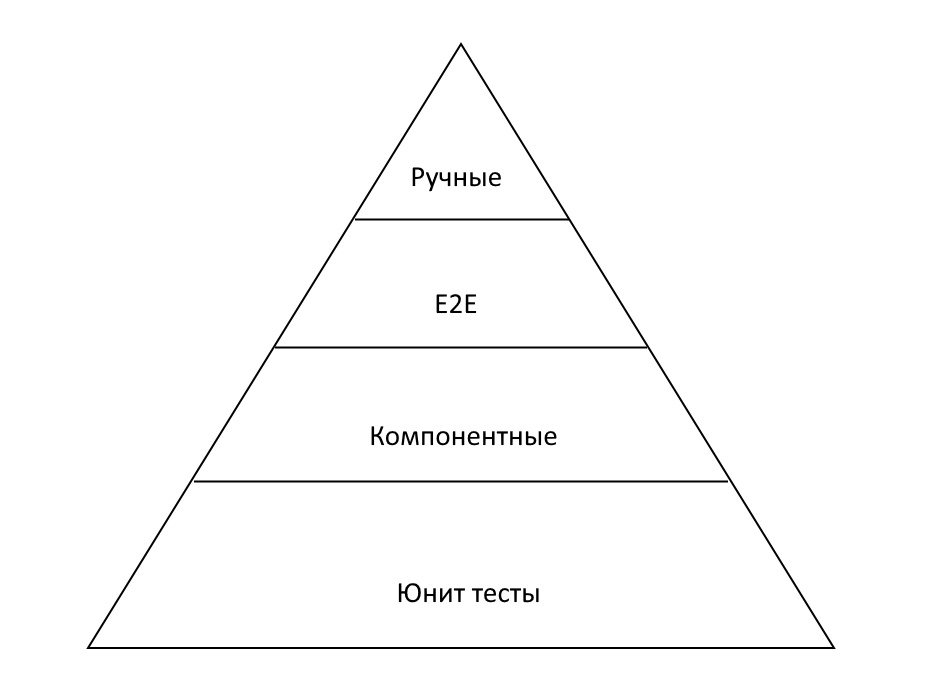
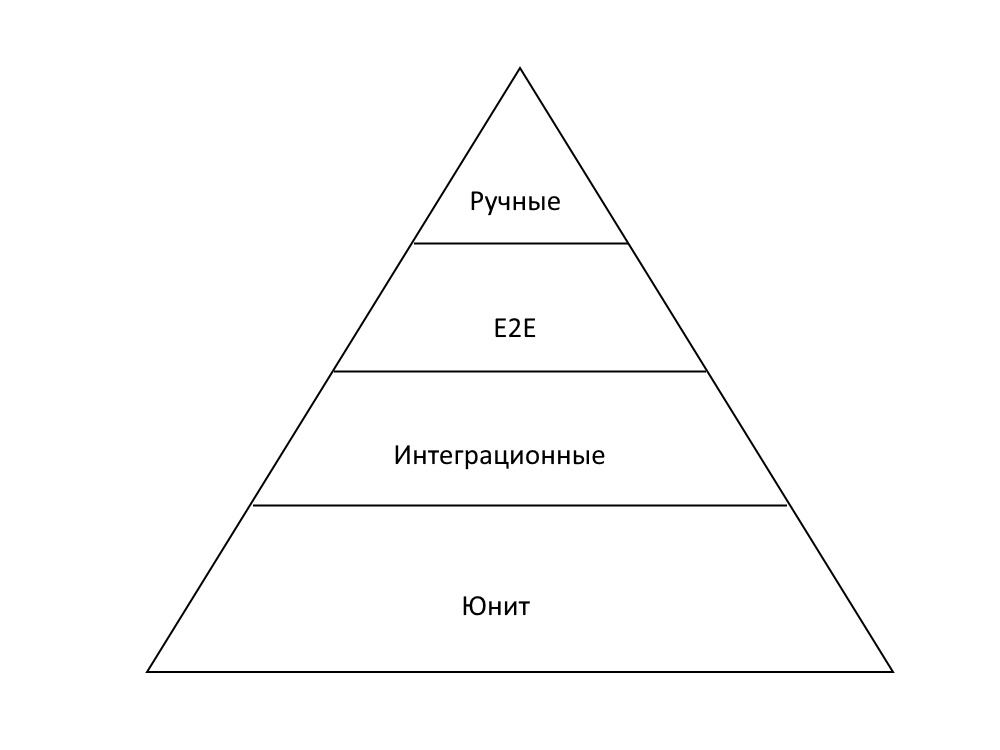
Добавить слайды

diff --git a/index.html b/index.html
@@ -24,8 +24,9 @@
         <li class="next">Инструменты Angular для тестирования</li>
         <li class="next">Про BDD</li>
         <li class="next">Основные функции Jasmine</li>
+        <li class="next">Утилиты Angular</li>
         <li class="next">Примеры тестов в реальном приложении</li>
-        <li class="next">Анали покрытия тестами</li>
+        <li class="next">Анализ покрытия тестами</li>
         <li class="next">Впечатления и профит</li>
     </ul>
 </section>
@@ -39,25 +40,25 @@
     <p>
         Это тестирование одного элемента кода (например, отдельная функция или класс в случае ООП-кода) в изоляции от
         остальной части программы.
-    </p>
-    <p>
+        <br>
+        <strong>Паттерн AAA</strong> - каждый тест разбивается на три части: <mark>arrange</mark> (подготовка), <mark>act</mark> (действие) и <mark>assert</mark> (проверка).
+        <br>
         <strong>Стабы</strong> — это заглушки, которые вместо выполнения действия возвращают какие-то данные.
-    </p>
-    <p>
+        <br>
         <strong>Моки</strong> — это заглушки, которые используются, чтобы подменить функциональность.
     </p>
 </section>
 
 
 <section class="slide">
-    <h2>Компонентные (интеграционные) тесты</h2>
+    <h2>Интеграционные</h2>
     <p>
         Тестируют какой-то компонент системы, но не полноценную систему (E2E).
         Например, мы проверяем, что компоненты на вкладке совместно корректно работают.
     </p>
     <ul>
         <li>Изолированы от внешней среды моками (стабами)</li>
-        <li>Быстрые и надёжные</li>
+        <li>Стабильные и достаточно быстрые</li>
         <li>Проверяют один экран (компонент) в разных комбинациях. Помогают при рефакторинге</li>
     </ul>
 </section>
@@ -76,6 +77,74 @@
     <div class="next">
         <strong>Protractor (не поддерживается)</strong> - фреймворк для E2E тестов
     </div>
+</section>
+
+<section class="slide">
+    <h2>BDD (Behaviour Driven Development — Разработка через поведение)</h2>
+    Исторически BDD является продолжением TDD методологии.
+    <br>
+    Использует концепцию <strong>DSL</strong> ( Domain-Specific Language - специфичный предметно-ориентированный язык) -
+    язык,
+    понятный всем участникам процесса и позволяющего объединить постановку задачи, тесты и документацию воедино.
+</section>
+
+<section class="slide">
+    <h2>Преимущества BDD</h2>
+    Улучшает коммуникацию между командой разработки и бизнесом.
+    <br>
+    <ul>
+        <li>ПО и аналитик пишут подробные требования в виде user stories.</li>
+        <li>На основе этих требований формируются тест-кейсы, которые описывают желаемое поведение</li>
+        <li>Разработчик реализует тесты и консультируется с тестировщиком, чтобы не уходить слишком далеко в логику</li>
+    </ul>
+    Т.о. разработчик понимает, что он реализует то, что нужно.
+</section>
+
+<section class="slide">
+    <pre><code>
+    <mark>describe</mark>("Узнать как дела", function() {
+        <mark>beforeEach</mark>(() => {  let isFine; });
+
+        <mark>it</mark>("всё отлично", function() {
+            isFine = true;
+            <mark>expect</mark>(isFine).toBe(true);
+        });
+    });
+    </code></pre>
+</section>
+
+<section class="slide">
+    <h2>Jasmine. Базовая структура теста</h2>
+    <strong>describe</strong> обозначает набор, логически связанных друг с другом тестов.
+    Наборы могут быть вложенными.
+    <br>
+    <strong>beforeEach()</strong> используется для задания исходного состояния и вызывается перед каждой функцией it()
+    <br>
+    <strong>it</strong> определяет тест-кейс внутри любого набора
+    <br>
+    <strong>expect</strong> определяет ожидания, которые проверяются в тесте
+</section>
+
+<section class="slide">
+    <h2><a href="https://jasmine.github.io/api/5.1/matchers.html" target="_blank">Matchers</a></h2>
+    <strong>toBe(expected)</strong> - строгое сравнение <code>===</code>, хорошо подходит для примитивов
+    <br>
+    <strong>toEqual(expected)</strong> - глубокое сравнение, хорошо подходит для сложных типов (массивы, объекты)
+    <br>
+    <strong>toBeDefined()</strong> - что, не <code>undefined</code>
+    <br>
+    <strong>toBeFalse()</strong> - что, <code>false</code>
+    <br>
+    <strong>toBeTruthy()</strong> - что, <code>true</code>
+</section>
+
+<section class="slide">
+    <h2>Подмена зависимостей. <a href="https://jasmine.github.io/api/5.1/Spy.html" target="_blank">Jasmine Spy.</a></h2>
+    <strong>jasmine.createSpyObj</strong> — позволяет создать новый объект класса с набором уже отслеживаемых методов
+    <br>
+    метод <strong>returnValue</strong> позволяет подменить возвращаемое значение
+    <br>
+    метод <strong>callFake()</strong> позволяет подменить вызов оригинальной функции
 </section>
 
 <footer class="badge">
